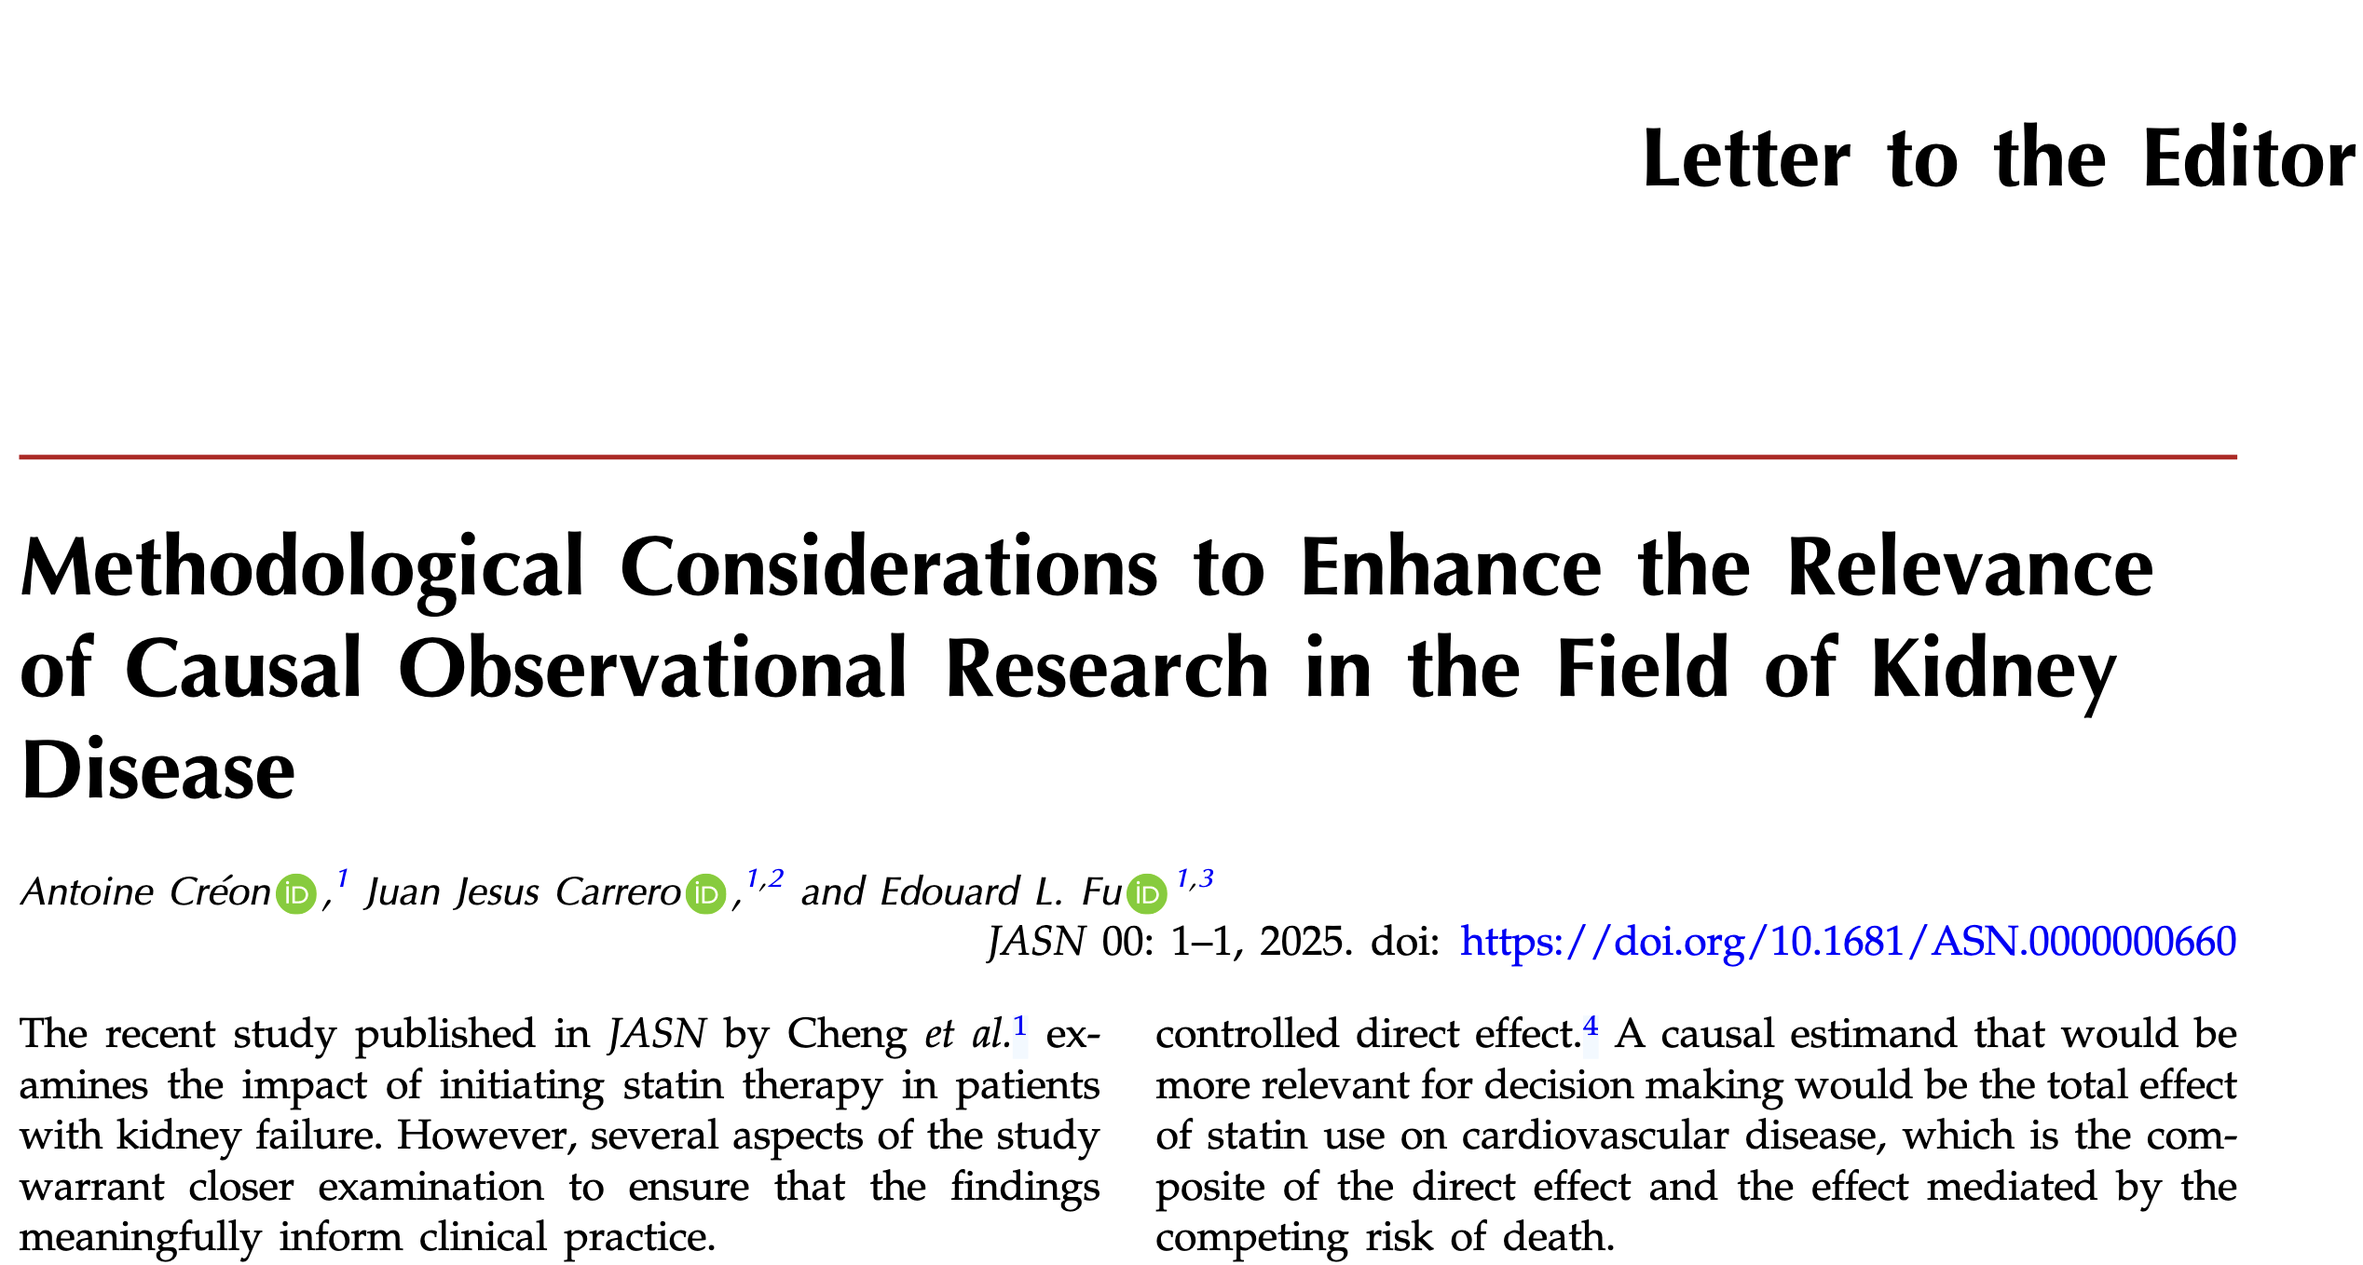
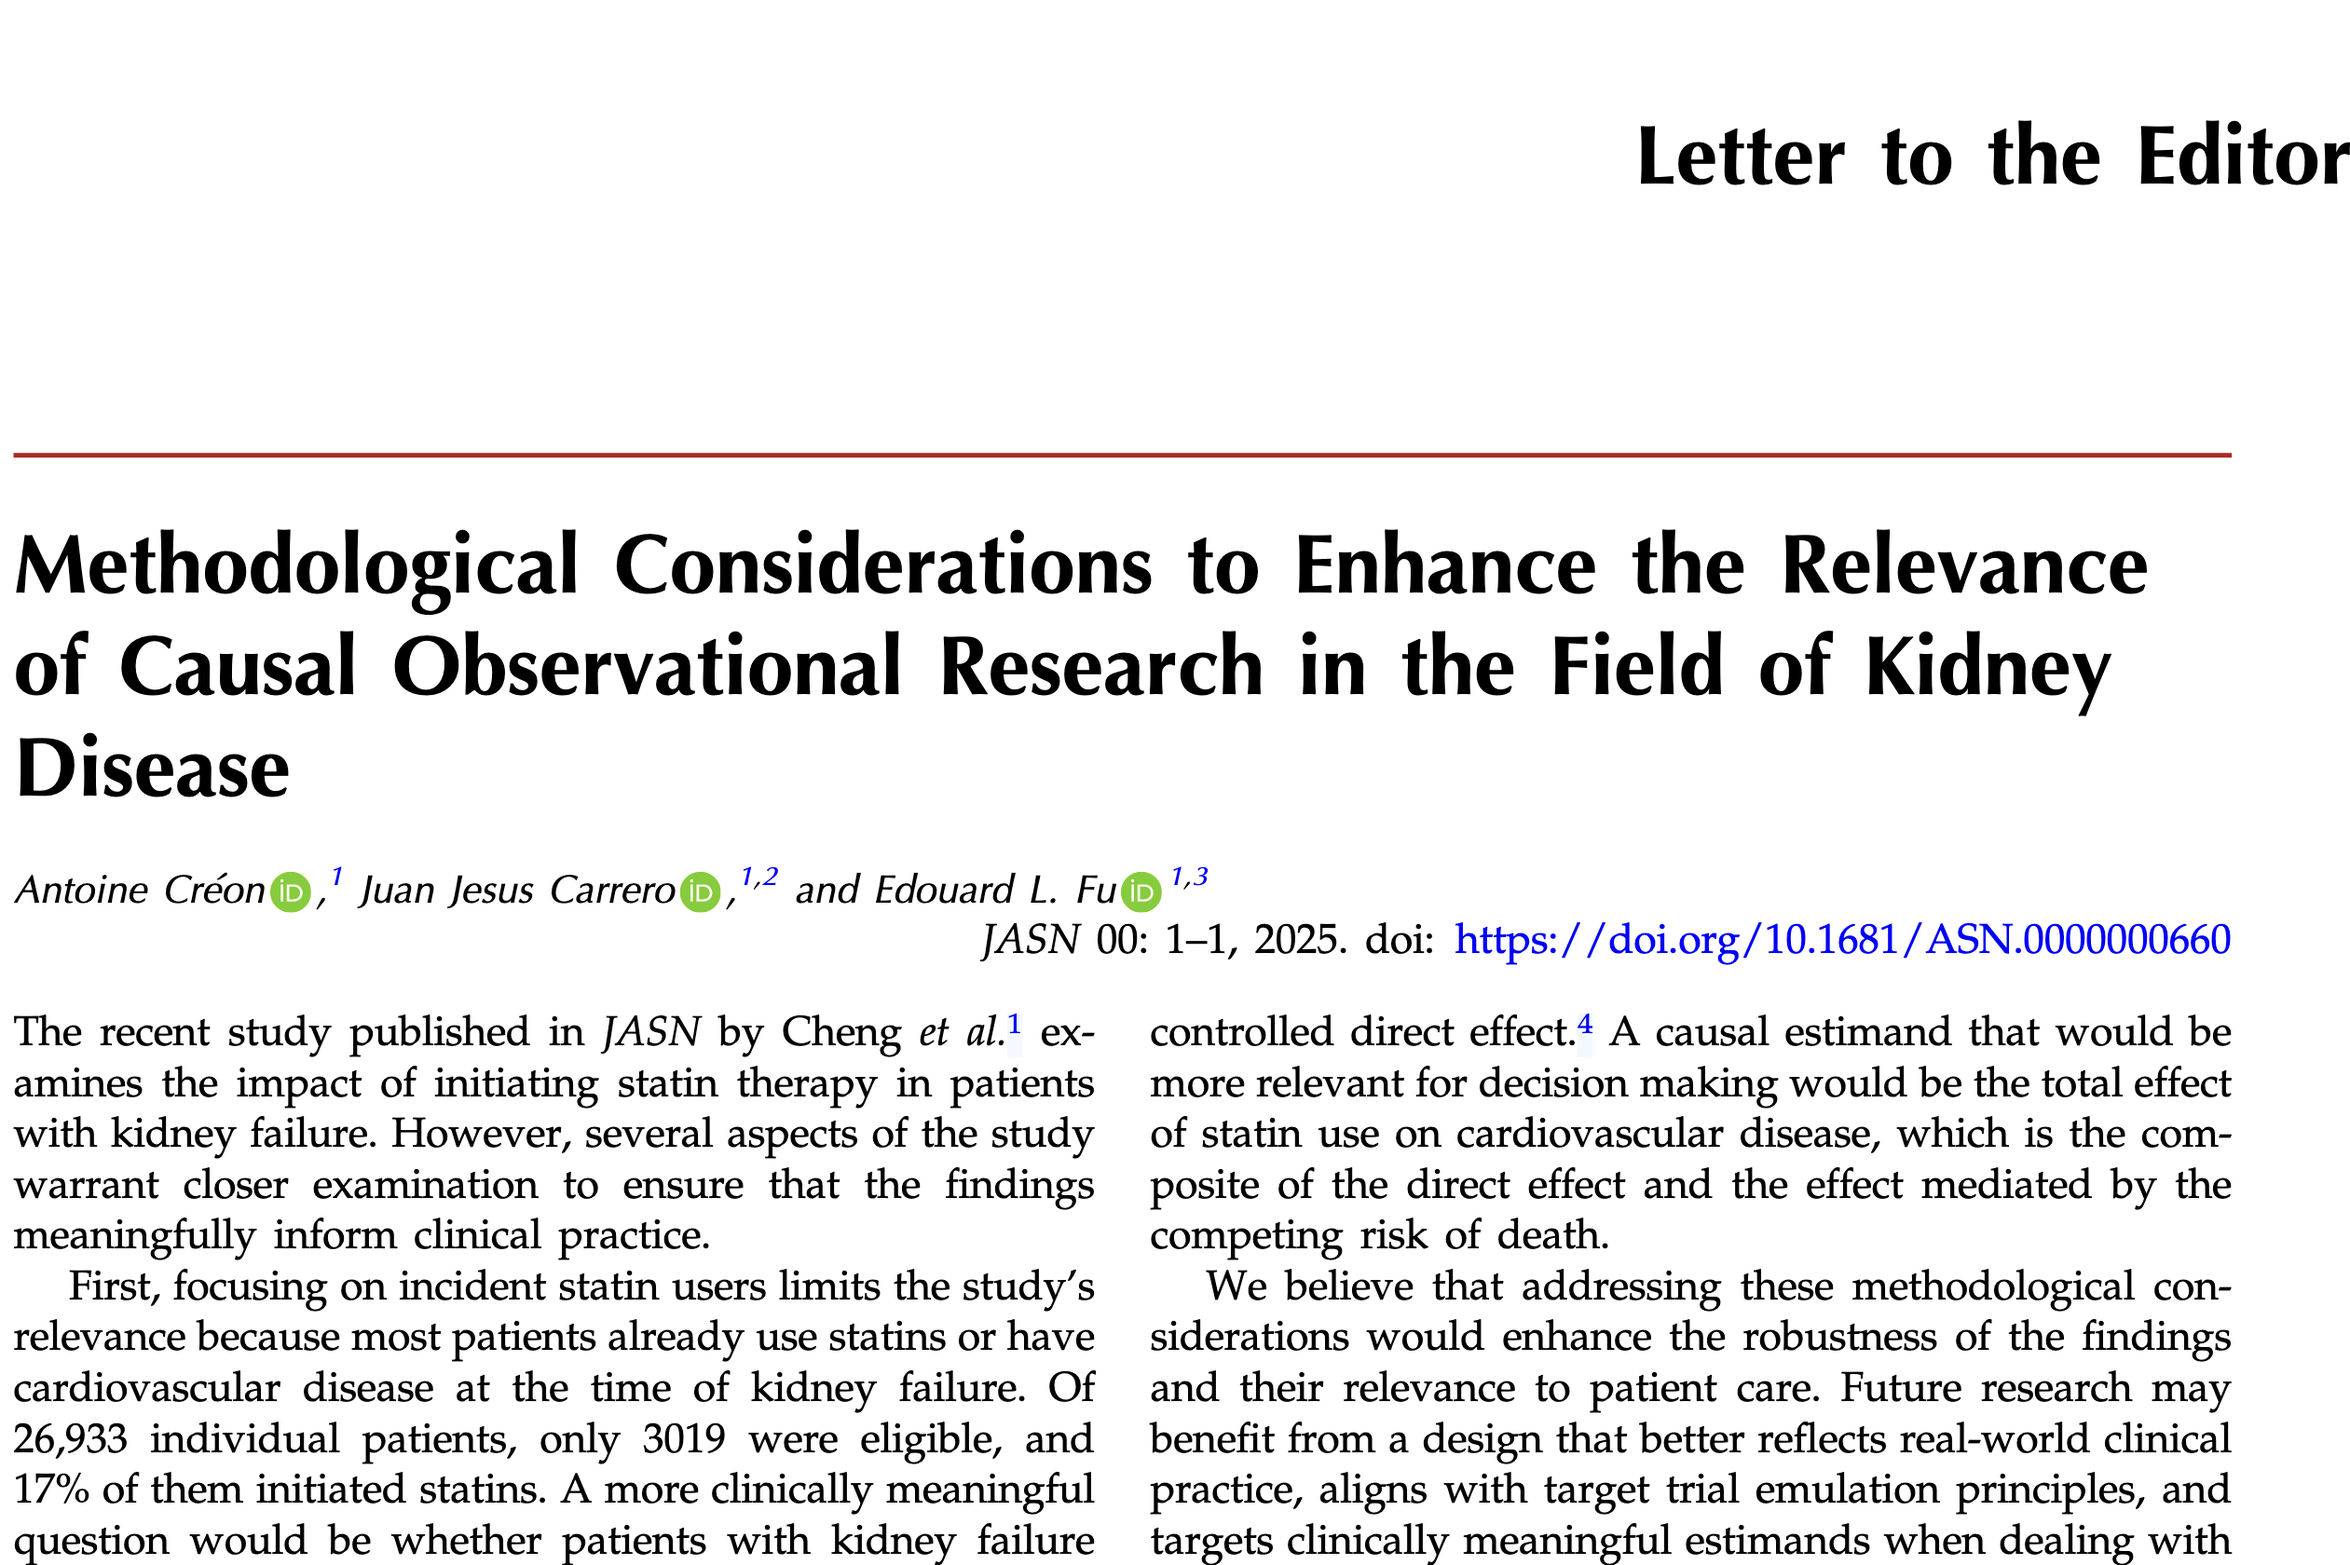
patients + cv + test without overriding pub date

Changed region(s): [[0.0, 0.3402, 0.9588, 1.0], [0.0, 0.2784, 0.9588, 0.3093], [0.6804, 0.0619, 1.0, 0.1546]]

diff --git a/layouts/partials/page_metadata.html b/layouts/partials/page_metadata.html
@@ -12,20 +12,16 @@
   </div>
   {{ end }}
   {{ end }}
-
-  {{ if not (in (slice "talk" "page") $page.Type) }}
+  
+{{ if not (in (slice "talk" "page") $page.Type) }}
   <span class="article-date">
     {{ $date := $page.Lastmod.Format site.Params.date_format }}
-    {{ if eq $page.Type "publication" }}
-      {{ $date = time.Format (site.Params.publications.date_format | default "January, 2006") $page.Date }}
-    {{ else }}
-      {{ if ne $page.Params.Lastmod $page.Params.Date }}
-          {{ i18n "last_updated" }}
-      {{ end }}
+    {{ if ne $page.Params.Lastmod $page.Params.Date }}
+        {{ i18n "last_updated" }}
     {{ end }}
     {{ $date }}
   </span>
-  {{ end }}
+{{ end }}
 
   {{ if and (eq $is_list 1) (eq $page.Type "publication") }}
   <span class="middot-divider"></span>

diff --git a/content/patients.md b/content/patients.md
@@ -7,10 +7,9 @@ design:
   # Section spacing
   spacing: '5rem'
 
-# Page sections
-sections:
-  - block: markdown
-    content:
-      title: "Outpatient visits"
-      text: "Currently, I am not clinically active."
 ---
+
+## Clinical Practice
+I am not currently engaged in direct clinical practice.
+
+This means that I cannot provide medical consultations or individual advice regarding diagnosis or treatment. If you are a patient looking for medical guidance, I encourage you to consult your treating physician or healthcare team, who know your situation best.

diff --git a/content/cv.md b/content/cv.md
@@ -30,5 +30,6 @@ sections:
 
   - block: resume-languages
     content:
+      title: Languages
       username: admin-extended
 ---
